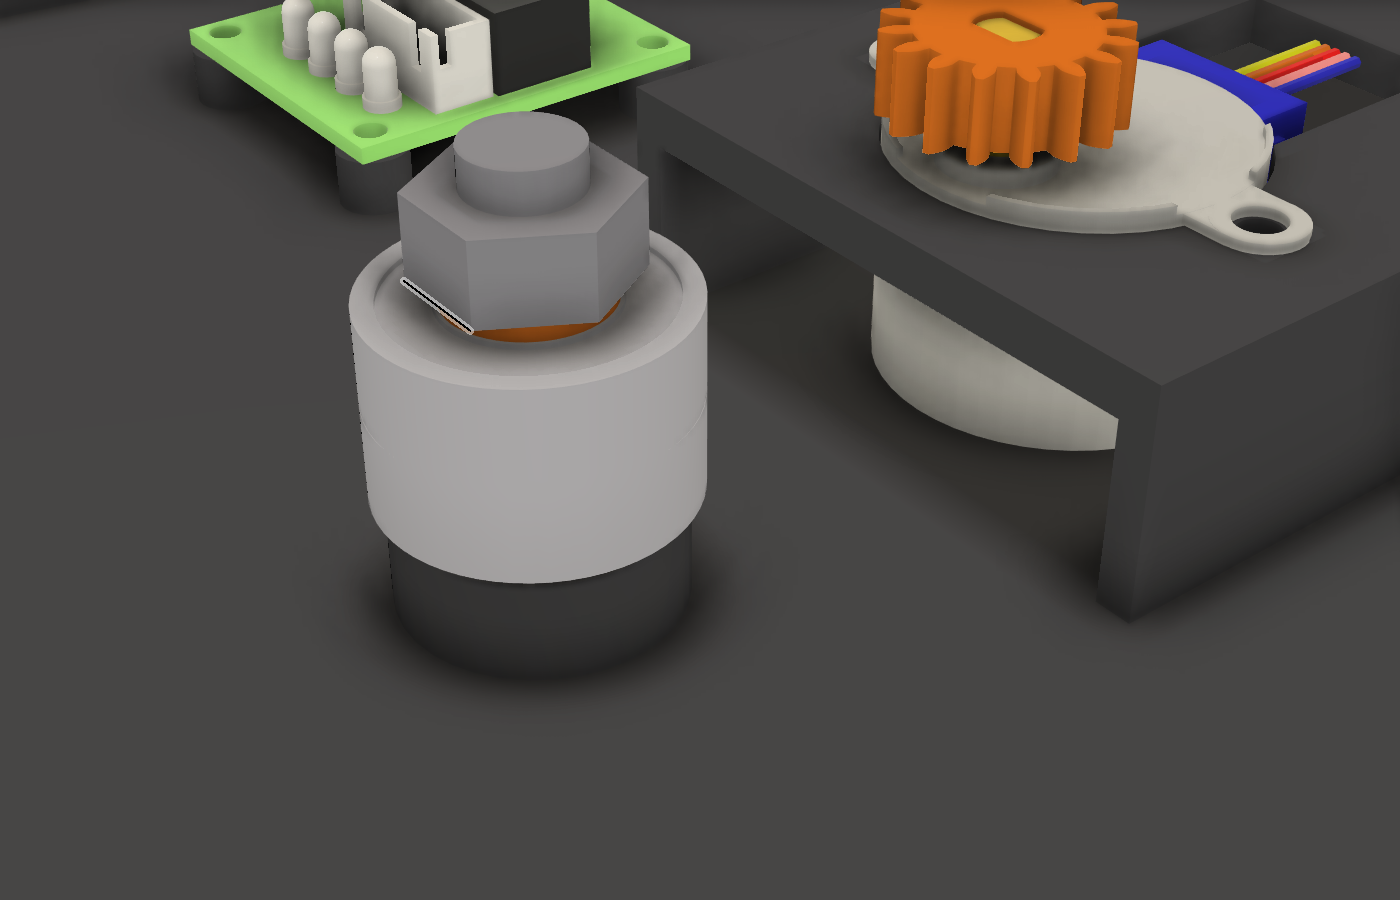
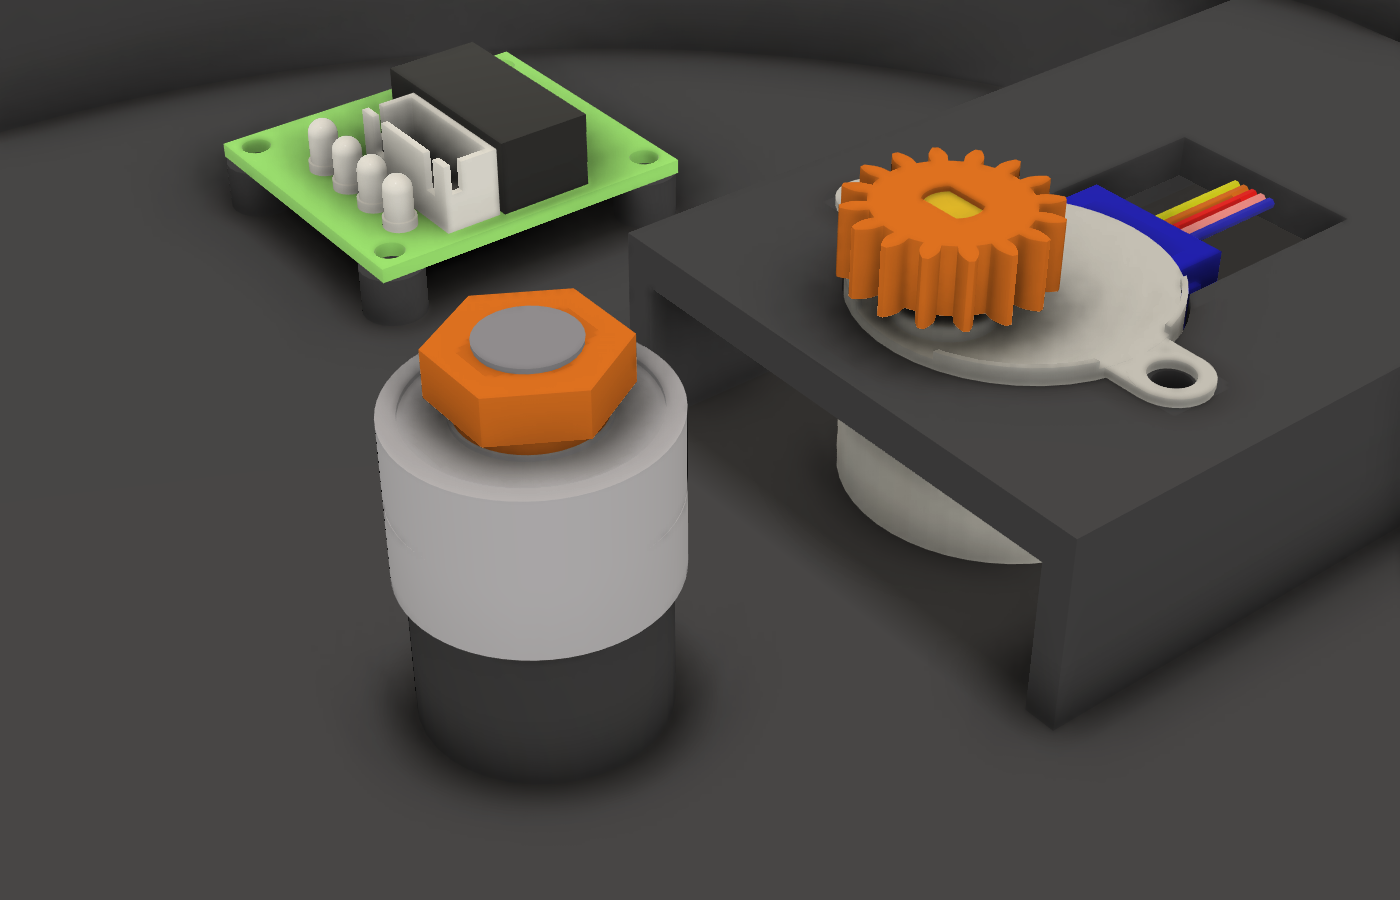
Turntable: a printed thin nut on the axle instead of the nylock and spacer
A 4 mm printed nut with a 1.5 mm collar on the inner race (the bolt cuts its thread in the
7 mm bore) clamps the bearings, so they sit only 1.5 mm lower in the hub instead of 6.

diff --git a/hardware/turntable/turntable_fusion.py b/hardware/turntable/turntable_fusion.py
@@ -53,11 +53,12 @@ MOTOR_HOUSING = (31.0, 9.5)  # blue cover and wire exit, from the body's centre 
 PINION_Z = (MOTOR_PLATE_TOP + MOTOR_FLATS[0] + 0.1, MOTOR_PLATE_TOP + MOTOR_FLATS[1] + 0.4)
 PLATTER_Z0 = PINION_Z[1] + 1.0      # platter underside; its top is PLATTER_Z0 + PLATTER_T
 GEAR_Z0 = PINION_Z[0] - 0.5         # platter gear: GEAR_Z0 .. PLATTER_Z0
-# Above the bearings, inside the hub: a printed spacer on the upper inner race and an M8 nylock nut (DIN 985, 6 mm)
-# that clamps both inner races onto the boss's ring and pulls the bolt's head up against its hex.
-AXLE_SPACER = (11.5, 8.4, 1.5)      # od, id, height: touches the inner race only, clear of the ZZ shields
-AXLE_NUT = (13.0, 6.0)              # across flats, height
-HUB_Z0 = PLATTER_Z0 - 22.0          # bearings 14, then spacer and nut in the hub's 16.5 mm bore
+# Above the bearings, inside the hub: a printed thin nut with a collar underneath that bears on the upper inner race
+# only (clear of the ZZ shields). Screwed down, it clamps both inner races onto the boss's ring and pulls the bolt's
+# head up against its hex. The bolt cuts its own thread in the printed bore.
+AXLE_NUT = (13.0, 4.0, 7.0)         # across flats, height, bore
+AXLE_NUT_COLLAR = (11.5, 1.5)       # diameter, height
+HUB_Z0 = PLATTER_Z0 - 2 - BEARING_STACK - 1.5   # 1.5 mm lower than flush with the lip, so the bolt goes through the nut
 BASE_TOP = PLATTER_Z0 - 2           # the wall stops under the platter's rim
 
 # Reference models (escornabot/3dmodel, MIT, in ./models), placed in the design by the script.
@@ -259,7 +260,7 @@ COLORS = [
     ("Piatto", (240, 240, 235)), ("Inserti", (20, 20, 20)), ("Base", (90, 90, 95)),
     ("Pignone", (230, 120, 30)), ("Pomell", (230, 120, 30)), ("Prova", (230, 120, 30)),
     ("Supporto", (200, 60, 60)), ("RIF iPhone", (40, 40, 50)), ("RIF cuscinetti", (190, 190, 200)),
-    ("RIF vite", (150, 150, 160)), ("RIF dado", (150, 150, 160)), ("Distanziale", (230, 120, 30)),
+    ("RIF vite", (150, 150, 160)), ("Dado", (230, 120, 30)),
     ("Braccio", (70, 110, 170)), ("Torre", (70, 110, 170)), ("Ganascia", (70, 110, 170)), ("Attacco", (70, 110, 170)),
 ]
 
@@ -591,14 +592,13 @@ def bearing_dummies():
     return out
 
 
-def axle_nut_dummies(root):
-    """The printed spacer and the M8 nylock nut on top of the upper bearing."""
-    od, idd, sh = AXLE_SPACER
+def axle_nut(root):
+    """The printed thin nut on the upper bearing: collar on the inner race, hex above it."""
+    af, nh, bore = AXLE_NUT
+    cd, ch = AXLE_NUT_COLLAR
     z = HUB_Z0 + BEARING_STACK
-    spacer = cut(cyl(0, 0, z, z + sh, od), cyl(0, 0, z - 1, z + sh + 1, idd))
-    af, nh = AXLE_NUT
-    nut = cut(prisms(root, [hexagon(af)], z + sh, nh)[0], cyl(0, 0, z, z + sh + nh + 1, 8))
-    return spacer, nut
+    nut = union(cyl(0, 0, z, z + ch + 0.1, cd), prisms(root, [hexagon(af)], z + ch, nh)[0])
+    return cut(nut, cyl(0, 0, z - 1, z + ch + nh + 1, bore))
 
 
 def axle_dummy(root):
@@ -767,8 +767,7 @@ def run(_context):
         ("Pomello M6", [knob6]),
         ("Pomello M5", [knob5]),
     ]
-    spacer, nut = axle_nut_dummies(root)
-    printed.append(("Distanziale asse", [spacer]))
+    printed.append(("Dado asse", [axle_nut(root)]))
     name, w, t, h, bump = PHONES[0]
     gap = jaw_gap(w, t)
     printed += [
@@ -779,7 +778,7 @@ def run(_context):
         ("Attacco treppiede", [tripod_adapter(root, tripod_axis_shown())]),
     ]
     reference = [(f"RIF {name}", [phone_dummy(w, t, h, bump)]), ("RIF cuscinetti 608ZZ", bearing_dummies()),
-                 ("RIF vite M8x30", [axle_dummy(root)]), ("RIF dado M8 autobloccante", [nut])]
+                 ("RIF vite M8x30", [axle_dummy(root)])]
 
     for name, bodies in printed + reference + test_parts(root):
         add_part(root, name, bodies)

diff --git a/hardware/turntable/README.md b/hardware/turntable/README.md
@@ -48,7 +48,7 @@ face. Also try the M5 and M6 nuts in one Pomello M5 and Pomello M6, which you ne
 | Ganascia sinistra, Ganascia destra | any | outer face on the bed, so the V groove prints without supports |
 | Pomello M6, Pomello M5 | any | nut pocket up; press the nut in |
 | Pomelli ganasce (2) | any | the M5 knob again, one per jaw |
-| Distanziale asse | any | flat (a 1.5 mm ring) |
+| Dado asse | any | collar down, 100 % infill: the M8 bolt cuts its thread in it |
 | Attacco treppiede | any | block on the bed, nut slot on the side, no supports (optional, see below) |
 
 The dots sit exactly where the paper mat has them (ring Ø176, dots Ø9, holes Ø4.5) and the same way round seen from
@@ -66,7 +66,6 @@ marks where the piece must stand. Insert fit is `INSERT_CLEAR` (0.15 mm radial).
 | 1 | ESP32-S3-WROOM-1 devkit, 2 × USB-C (57 × 28.3 mm), headers soldered pins down | in its holder in the base | [Binghe S3-DevKitC-1 N16R8, Amazon.it](https://www.amazon.it/dp/B0D6B2CYNW): €24.99 for 3 (Jun 2026) |
 | 2 | 608ZZ bearing (8 × 22 × 7) | pressed into the platter's hub | [YAPKOLV, Amazon.it](https://www.amazon.it/dp/B0F6LHYSS8): €7.49 for 12 (Apr 2026) |
 | 1 | M8 × 30 hex bolt | the axle, head pressed into the hex under the base |  |
-| 1 | M8 nylock nut, DIN 985 (6 mm) | on the printed spacer, clamps the bearings' inner races on the axle |  |
 | 2 | M3 × 8 screw + M3 nut | motor ears to the plate |  |
 | 4 | M3 × 6 self-tapping screw | ULN2003 board to its standoffs |  |
 | 2 | M4 × 16 screw + M4 nut | arm to the base (nuts in the pockets inside the base) |  |
@@ -170,10 +169,11 @@ ESP32-S3-DevKitC-1. Open the folder in the pioarduino IDE and use Upload, or fro
 ## Geometry
 
 - The axle: the M8 × 30 bolt's head sits in the hex under the base, its shank goes up through the central boss;
-  the two 608ZZ slide onto it, their inner races on the boss's 11.5 mm ring. On top go the printed `Distanziale asse`
-  (11.5 × 8.4 × 1.5 mm, on the inner race only, clear of the ZZ shields) and an M8 nylock nut (DIN 985): tightened,
-  it clamps both inner races onto the ring and pulls the bolt's head up into its hex, so neither the bearings nor
-  the bolt can move. Then the platter's hub is pressed down over the outer races; it rests on the upper one and
+  the two 608ZZ slide onto it, their inner races on the boss's 11.5 mm ring. On top goes the printed `Dado asse`, a thin
+  nut (4 mm, Ø 7 mm bore: the bolt cuts its own thread) with a 1.5 mm collar underneath that bears on the inner race
+  only, clear of the ZZ shields. Screwed down, it clamps both inner races onto the ring and pulls the bolt's head up
+  into its hex, so neither the bearings nor the bolt can move. The bearings sit 1.5 mm below the hub's lip so the
+  bolt comes right through the nut. Then the platter's hub is pressed down over the outer races; it rests on the upper one and
   lifts off again.
 
   ![Axle and bearings](asse.png)
